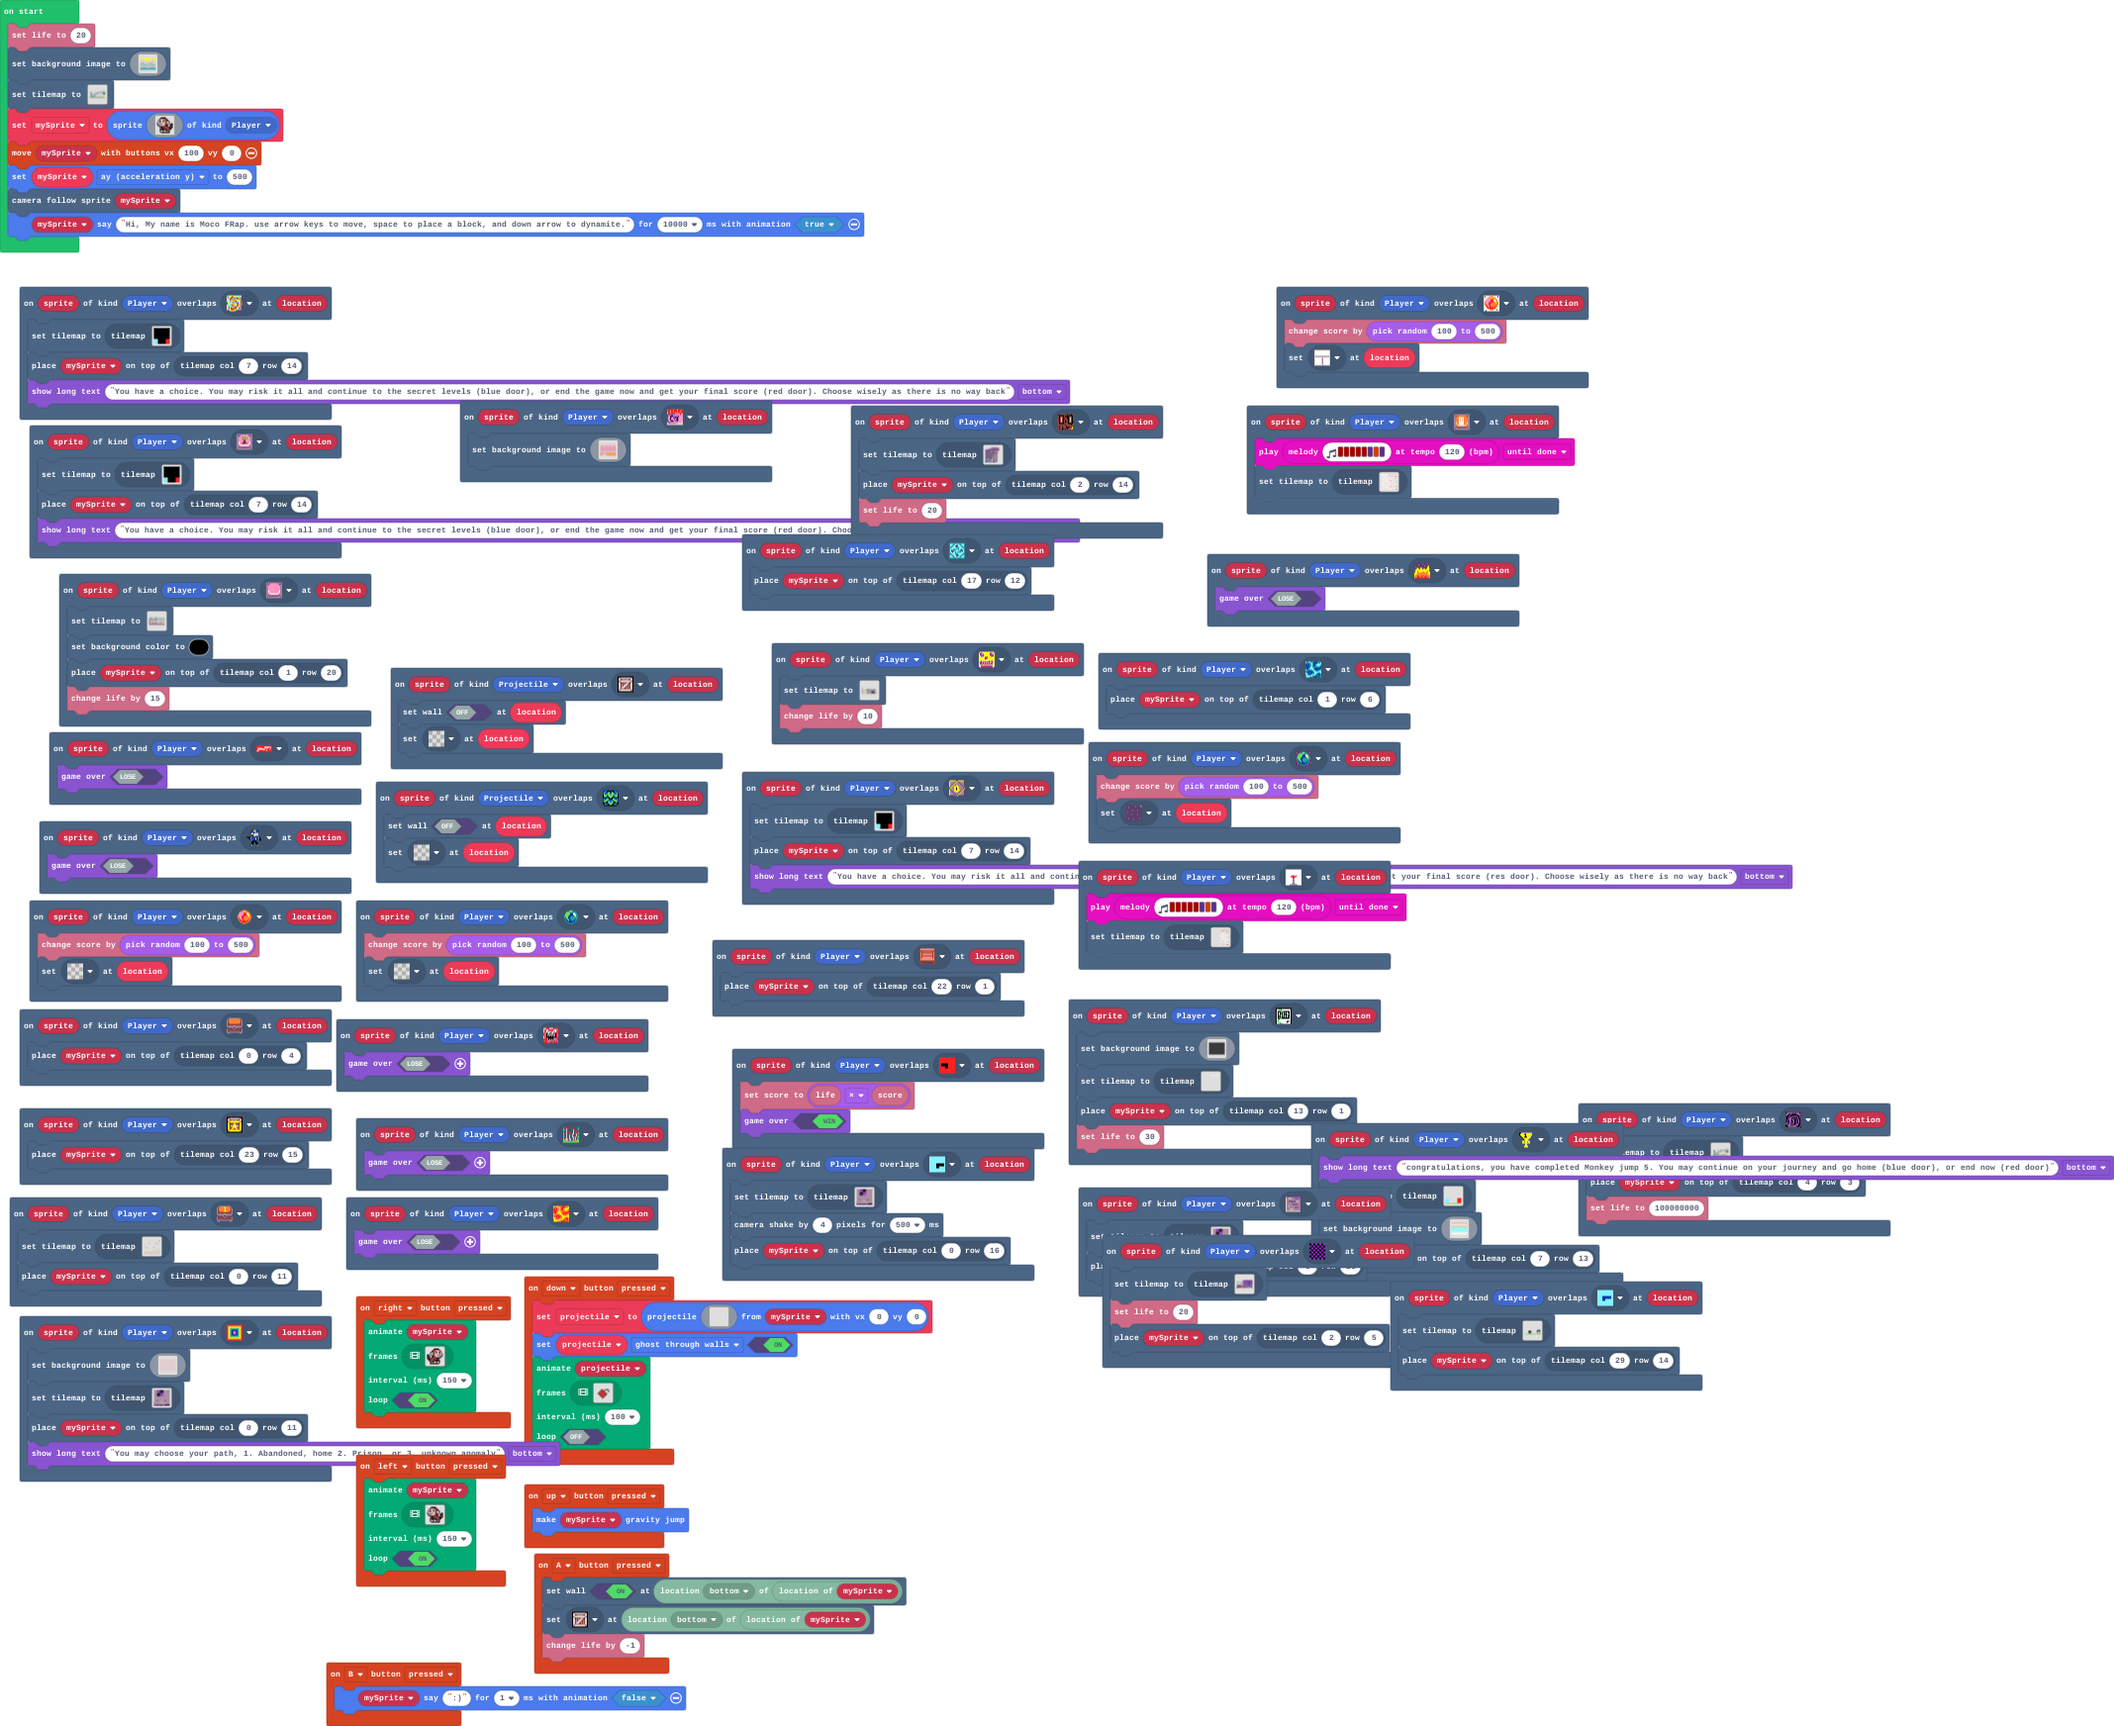
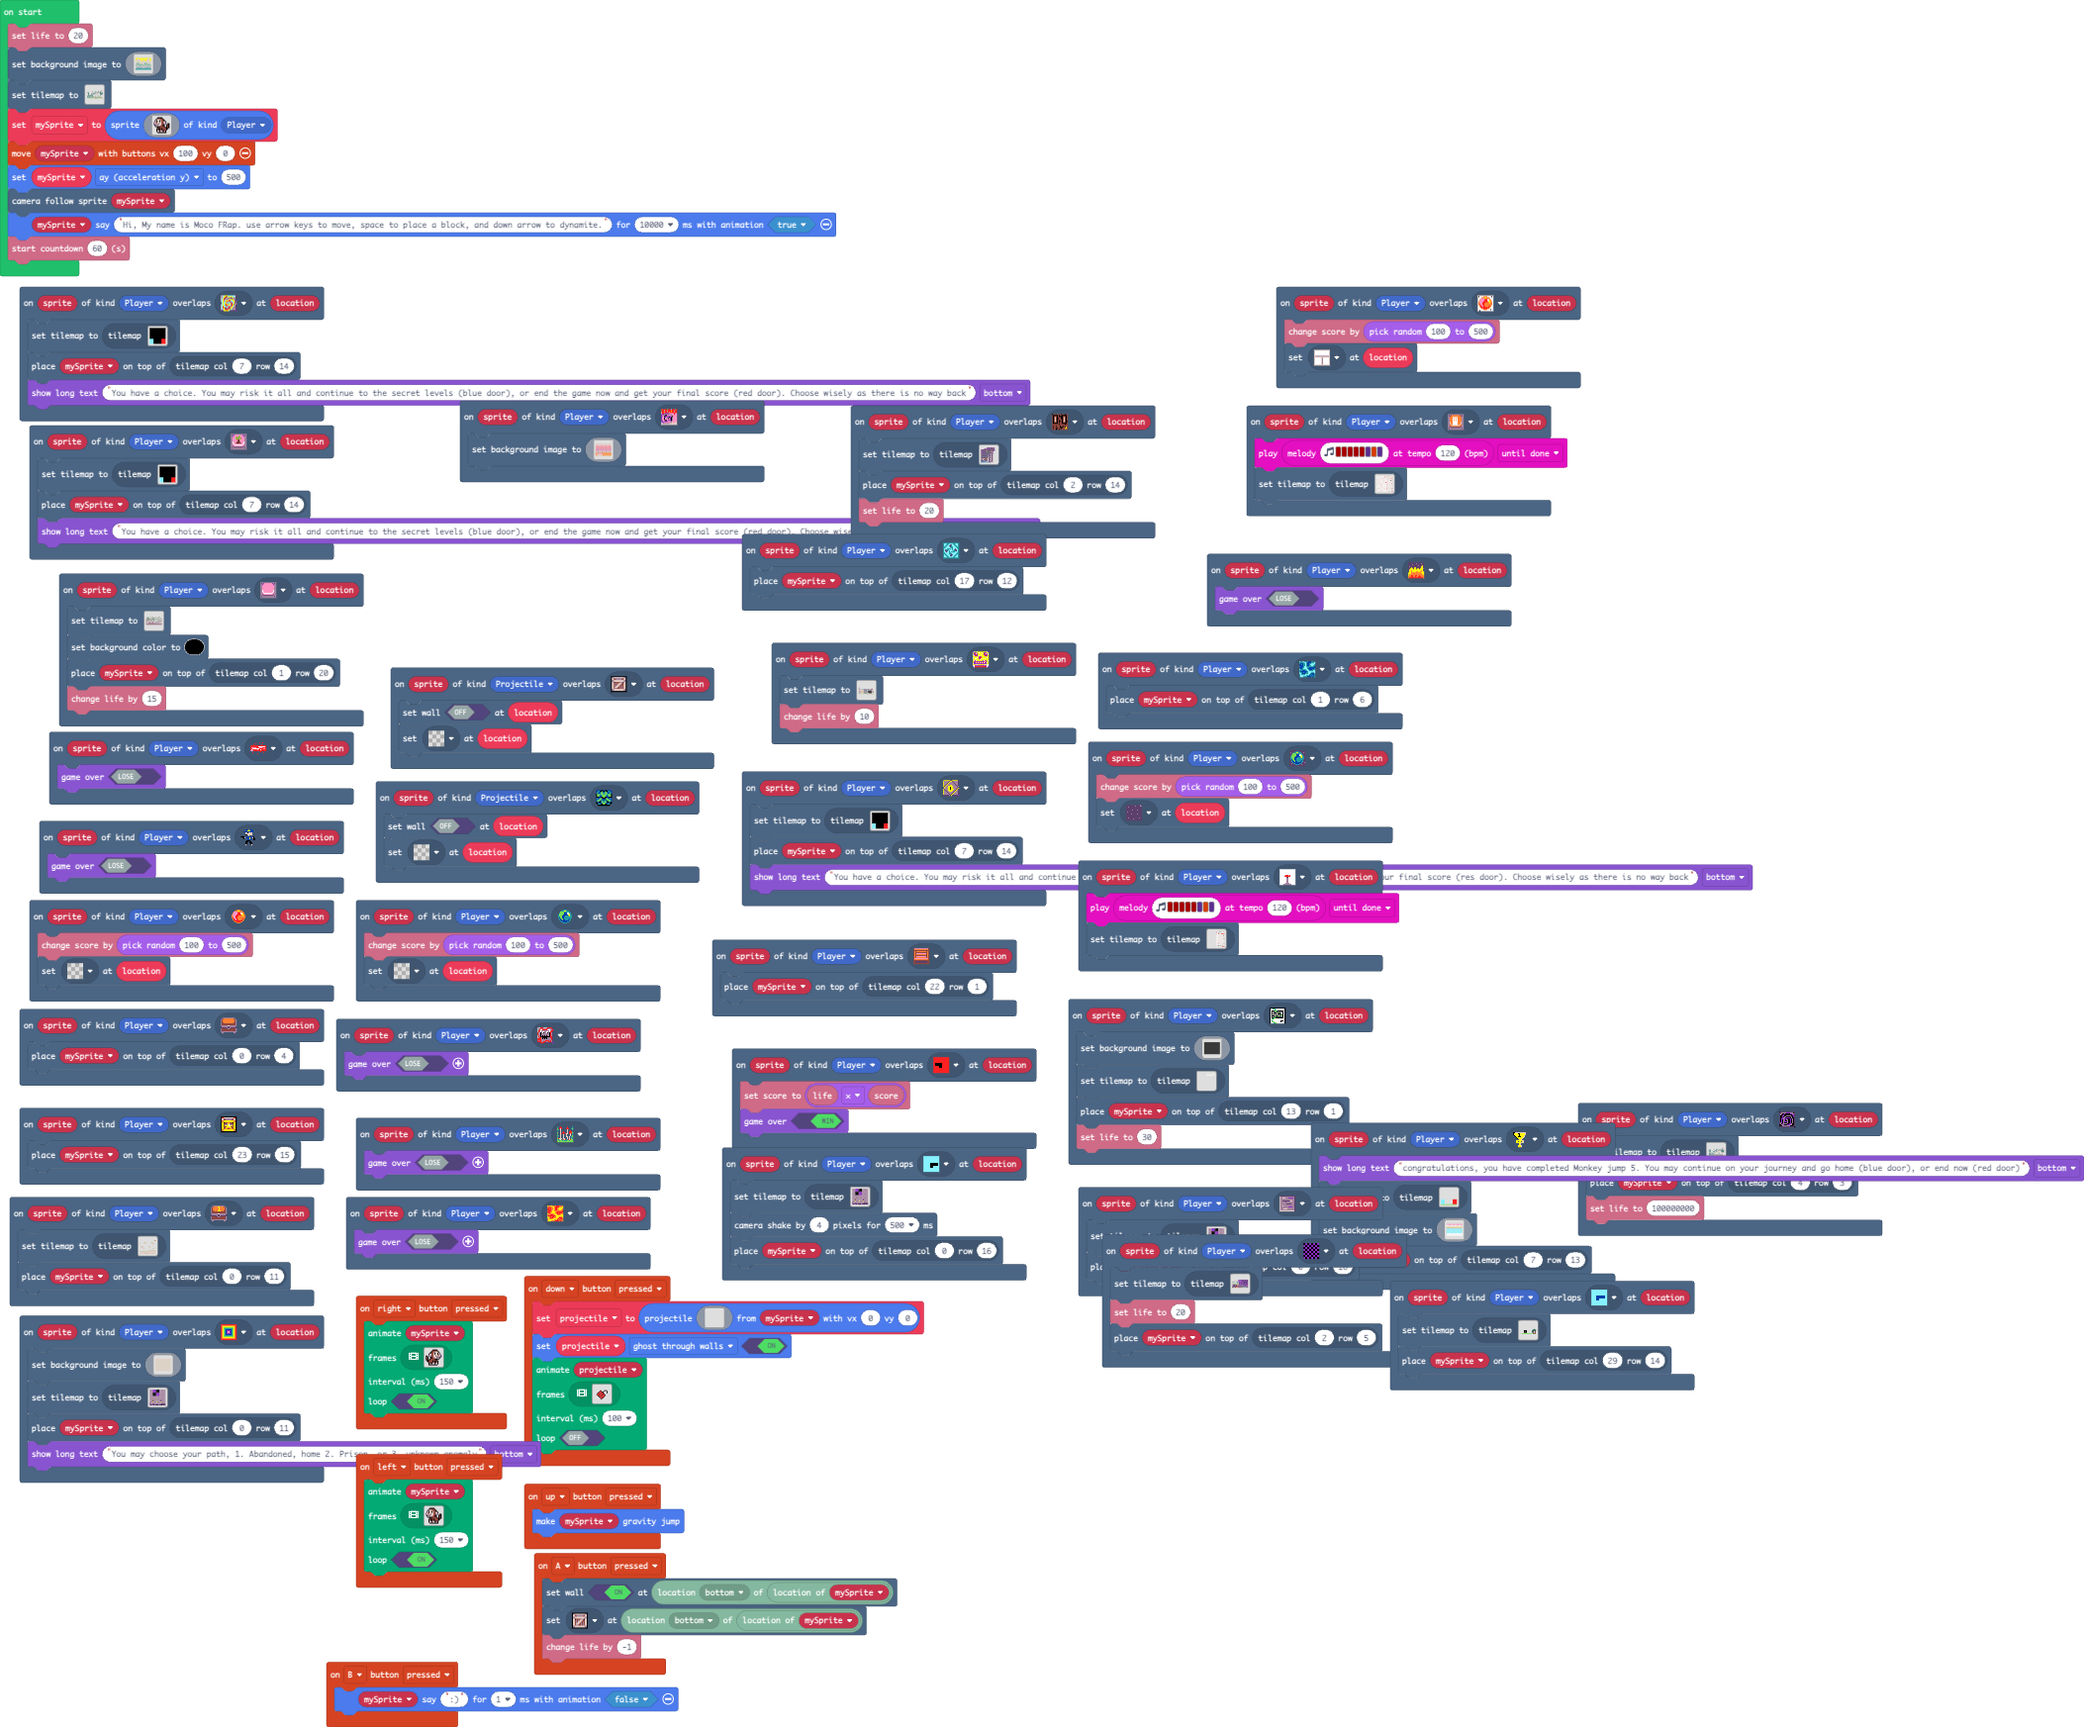
Update main.blocks, main.ts

diff --git a/main.ts b/main.ts
@@ -693,3 +693,4 @@ controller.moveSprite(mySprite, 100, 0)
 mySprite.ay = 500
 scene.cameraFollowSprite(mySprite)
 mySprite.sayText("Hi, My name is Moco FRap. use arrow keys to move, space to place a block, and down arrow to dynamite.", 10000, true)
+info.startCountdown(60)
